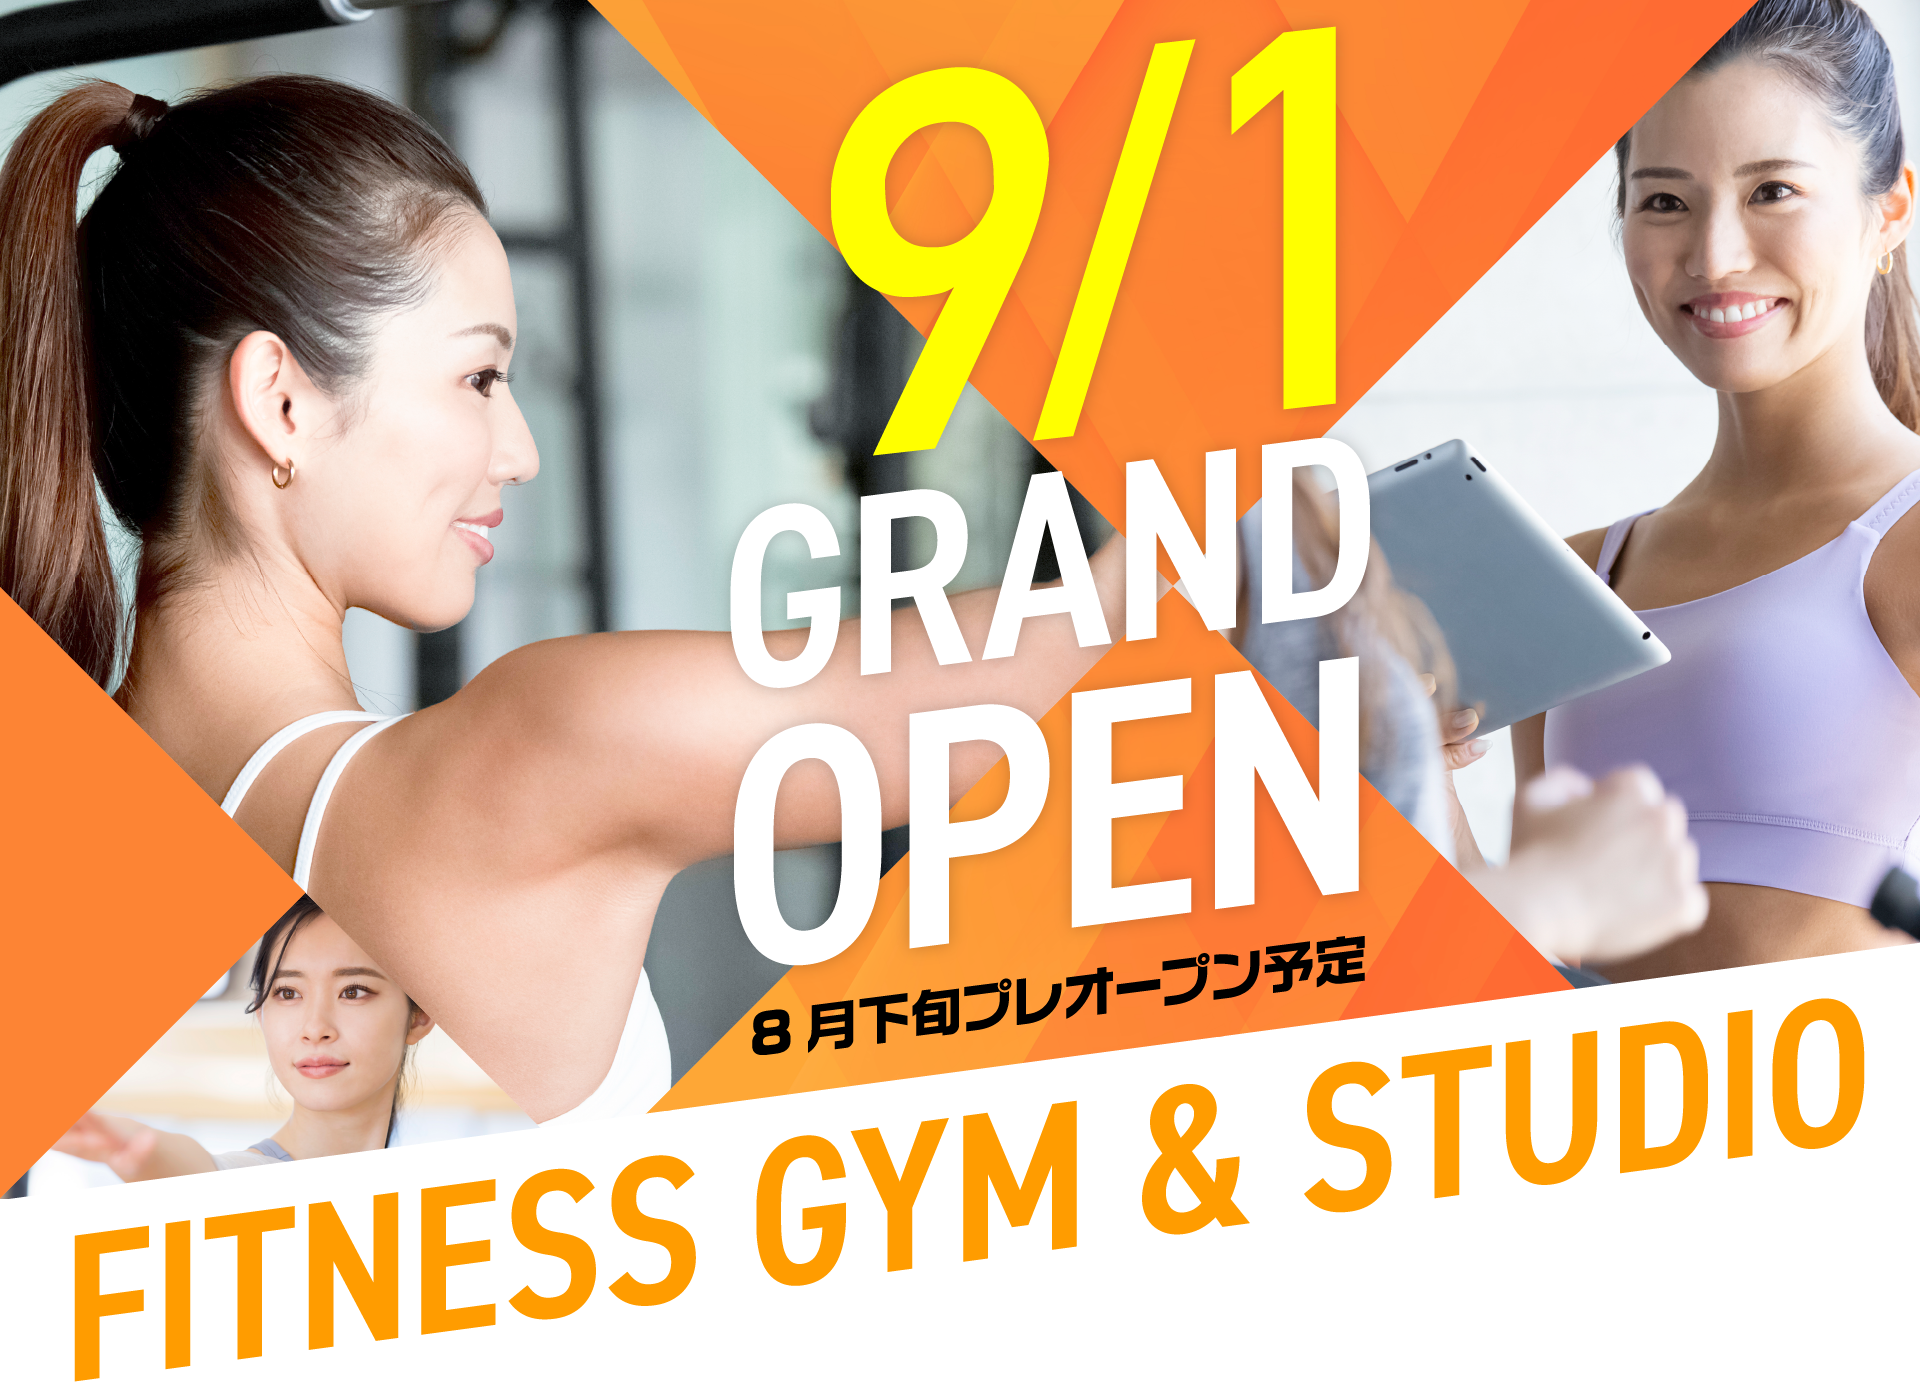
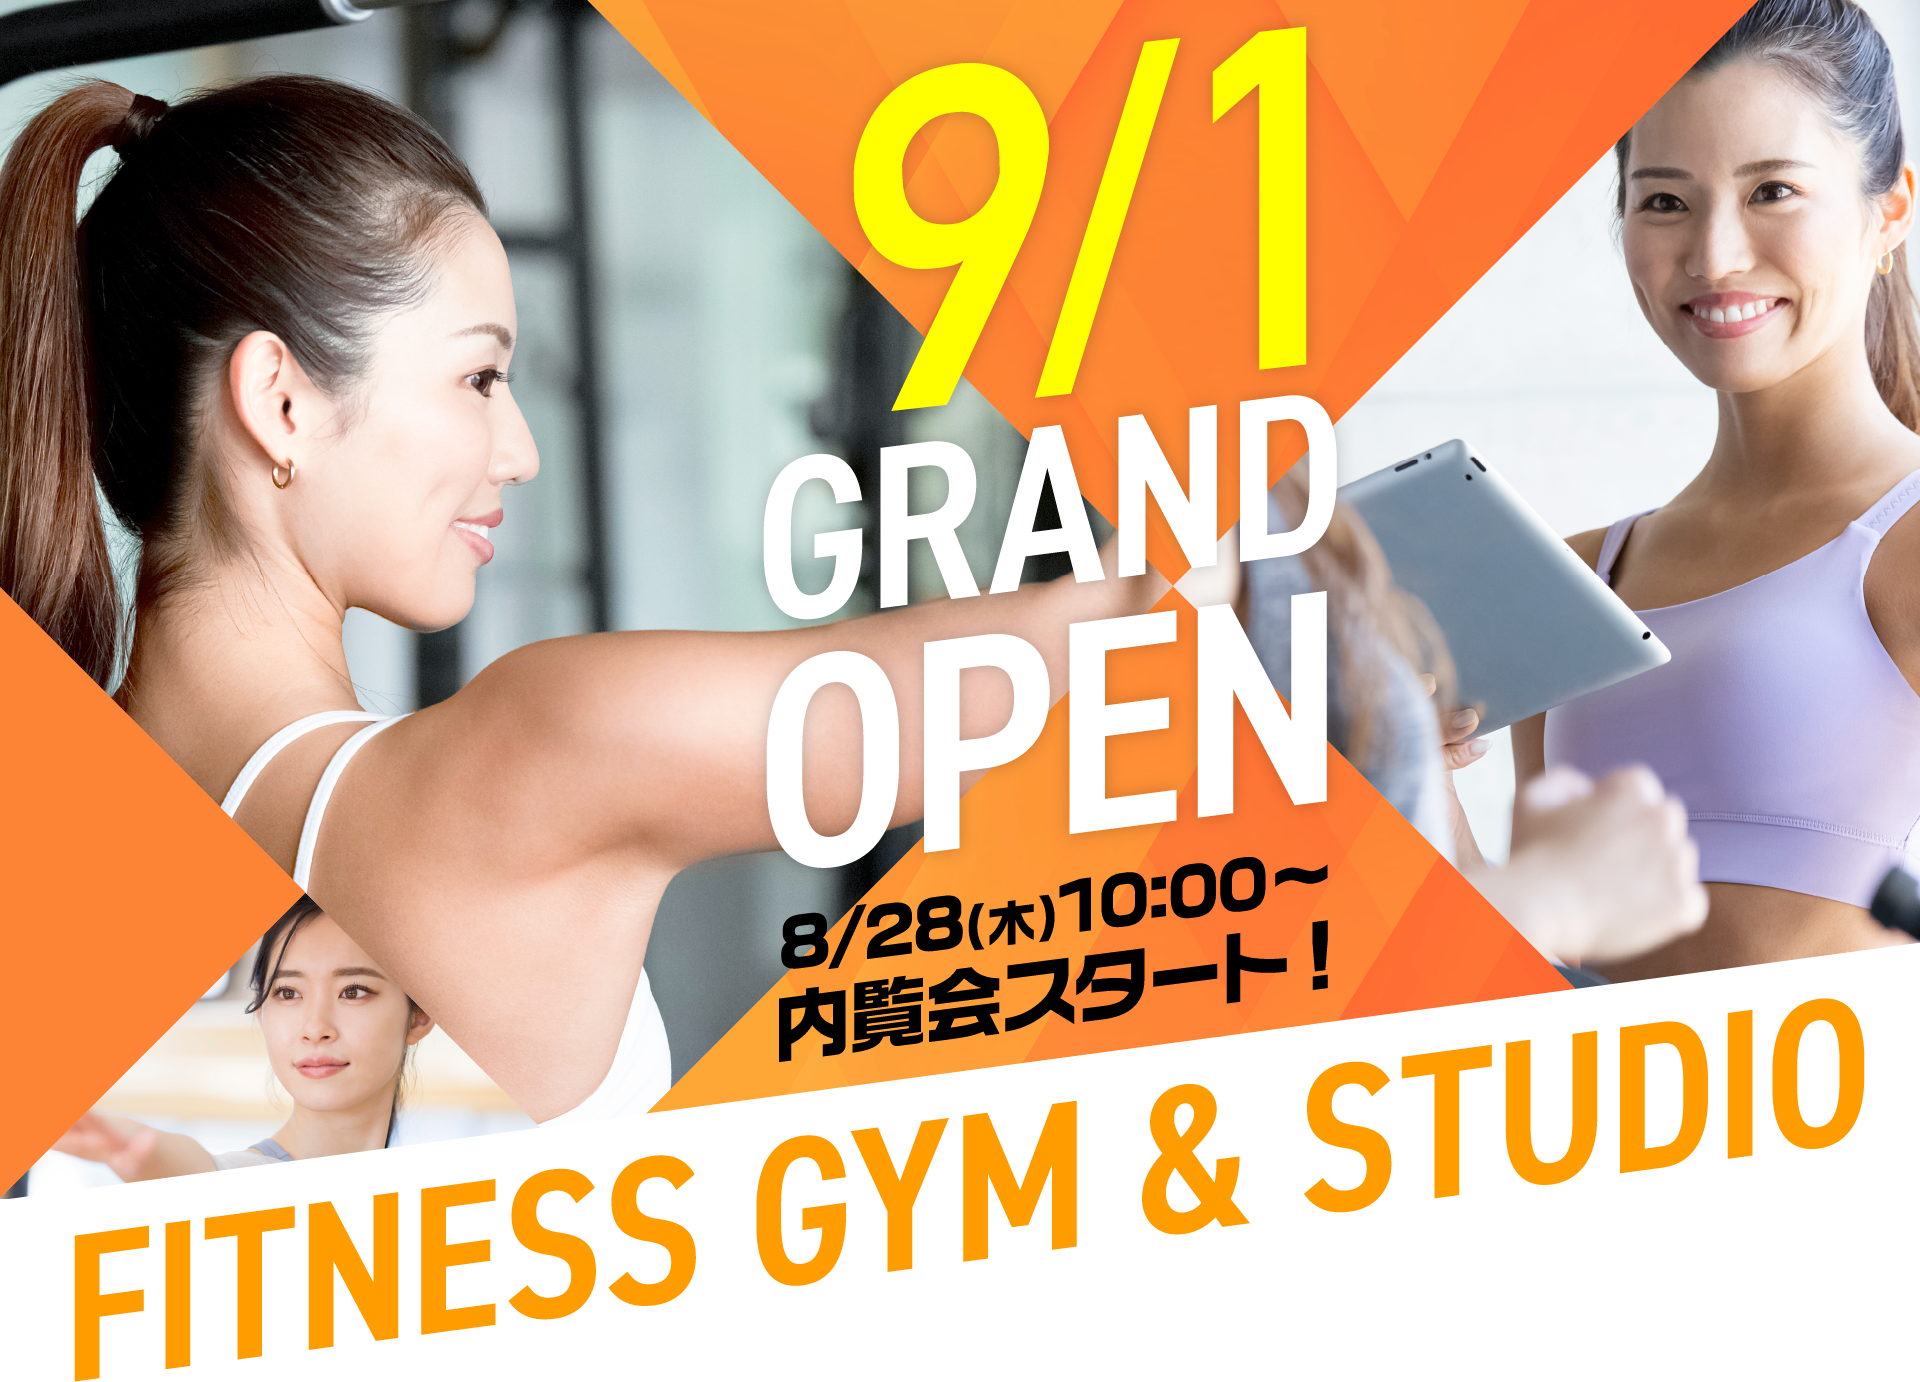
修正

Changed region(s): [[0.375, 0.0, 0.7188, 0.7779]]

diff --git a/assets/css/page.css b/assets/css/page.css
@@ -82,6 +82,85 @@
   color: #ff9c00;
 }
 
+.column-list {
+  max-width: 1200px;
+  width: 80%;
+  margin: 0 auto;
+  display: -webkit-box;
+  display: -webkit-flex;
+  display: -ms-flexbox;
+  display: flex;
+  -webkit-flex-wrap: wrap;
+      -ms-flex-wrap: wrap;
+          flex-wrap: wrap;
+  -webkit-box-pack: start;
+  -webkit-justify-content: flex-start;
+      -ms-flex-pack: start;
+          justify-content: flex-start;
+}
+@media screen and (max-width: 640px) {
+  .column-list {
+    width: 100%;
+  }
+}
+.column-list li {
+  margin-bottom: 3%;
+  font-weight: 500;
+}
+@media screen and (min-width: 641px) {
+  .column-list li {
+    width: 31%;
+  }
+  .column-list li:not(:nth-of-type(3n+1)) {
+    margin-left: 3.5%;
+  }
+}
+@media screen and (max-width: 640px) {
+  .column-list li {
+    width: 100%;
+    margin-bottom: 10%;
+  }
+}
+.column-list__img {
+  margin-bottom: 0.5em;
+}
+.column-list__img img {
+  -o-object-fit: cover !important;
+     object-fit: cover !important;
+  width: 100% !important;
+  height: 250px !important;
+}
+@media screen and (max-width: 1366px) {
+  .column-list__img img {
+    height: 15.625vw !important;
+  }
+}
+@media screen and (max-width: 640px) {
+  .column-list__img img {
+    height: 59.8453333333vw !important;
+    height: 50vw !important;
+  }
+}
+.column-list__time {
+  font-size: 1em;
+  color: #CCC;
+}
+.column-list__ttl {
+  font-size: 1.25em;
+  line-height: 1.4;
+  font-weight: 500;
+  margin-top: 0.5em;
+  font-weight: bold;
+}
+.column-list__txt {
+  font-size: 1.125em;
+  margin-top: 0.5em;
+}
+.column-list .news-more {
+  text-align: left;
+  margin-top: 1em;
+}
+
 .single-area,
 .page-area {
   max-width: 1000px;

diff --git a/assets/scss/_page_sub.scss b/assets/scss/_page_sub.scss
@@ -88,6 +88,66 @@
     }
 }
 
+.column-list {
+    max-width: 1200px;
+    width: 80%;
+    margin: 0 auto;
+    display: flex;
+    flex-wrap: wrap;
+    justify-content: flex-start;
+    @include max-screen($screen-xs) {
+        width: 100%;
+    }
+    li {
+        @include min-screen($screen-xs + 1) {
+            width: 31%;
+            &:not(:nth-of-type(3n+1)) {
+                margin-left: 3.5%;
+            }
+        }
+        margin-bottom: 3%;
+        font-weight: 500;
+        @include max-screen($screen-xs) {
+            width: 100%;
+            margin-bottom: 10%;
+        }
+    }
+    &__img {
+        margin-bottom: 0.5em;
+        img {
+            object-fit: cover !important;
+            width: 100% !important;
+            height: 250px !important;
+            @include max-screen($screen-xl) {
+                height: (15000vw/960) !important;
+            }
+            @include max-screen($screen-xs) {
+                height: (22442vw/375) !important;
+                height: 50vw !important;
+            }
+        }
+    }
+    &__time {
+        font-size: (16em/16);
+        color: #CCC;
+    }
+    &__ttl {
+        font-size: (20em/16);
+        line-height: 1.4;
+        font-weight: 500;
+        margin-top: 0.5em;
+        font-weight: bold;
+    }
+    &__txt {
+        font-size: (18em/16);
+        margin-top: 0.5em;
+    }
+    .news-more {
+        text-align: left;
+        margin-top: 1em;
+    }
+}
+
 
 .single-area,
 .page-area {

diff --git a/assets/scss/top.scss b/assets/scss/top.scss
@@ -272,6 +272,9 @@ body {
         figure {
             width: 10em;
             margin: 0 auto 1em;
+            img {
+                height: auto;
+            }
         }
         .info {
             text-align: center;
@@ -669,8 +672,8 @@ body {
         border-bottom: 2px solid #000;
         padding: 0 0.25em 0.25em;
         &:hover {
-            color: $gre;
-            border-color: $gre;
+            color: $ora;
+            border-color: $ora;
         }
     }
     &.--wt {

diff --git a/index.html b/index.html
@@ -90,7 +90,7 @@ height="0" width="0" style="display:none;visibility:hidden"></iframe></noscript>
     </div>
 </section>
 
-<a href="https://lin.ee/ecEvsI5" target="_blank" class="line-bnr"><img src="assets/img/top/line_bnr.svg" alt="8月下旬プレオープン予定!!"></a>
+<a href="https://lin.ee/ecEvsI5" target="_blank" class="line-bnr"><img src="assets/img/top/line_bnr.svg" alt="8/28より内覧会スタート!"></a>
 
 <section class="sec -news" id="link02">
     <h2 class="sec__ttl">

diff --git a/assets/css/top.css b/assets/css/top.css
@@ -281,6 +281,9 @@
   width: 10em;
   margin: 0 auto 1em;
 }
+.instructor-list__li figure img {
+  height: auto;
+}
 .instructor-list__li .info {
   text-align: center;
 }
@@ -721,8 +724,8 @@
   padding: 0 0.25em 0.25em;
 }
 .news-more a:hover {
-  color: #B7D100;
-  border-color: #B7D100;
+  color: #ff9c00;
+  border-color: #ff9c00;
 }
 .news-more.--wt a {
   color: #FFF;
